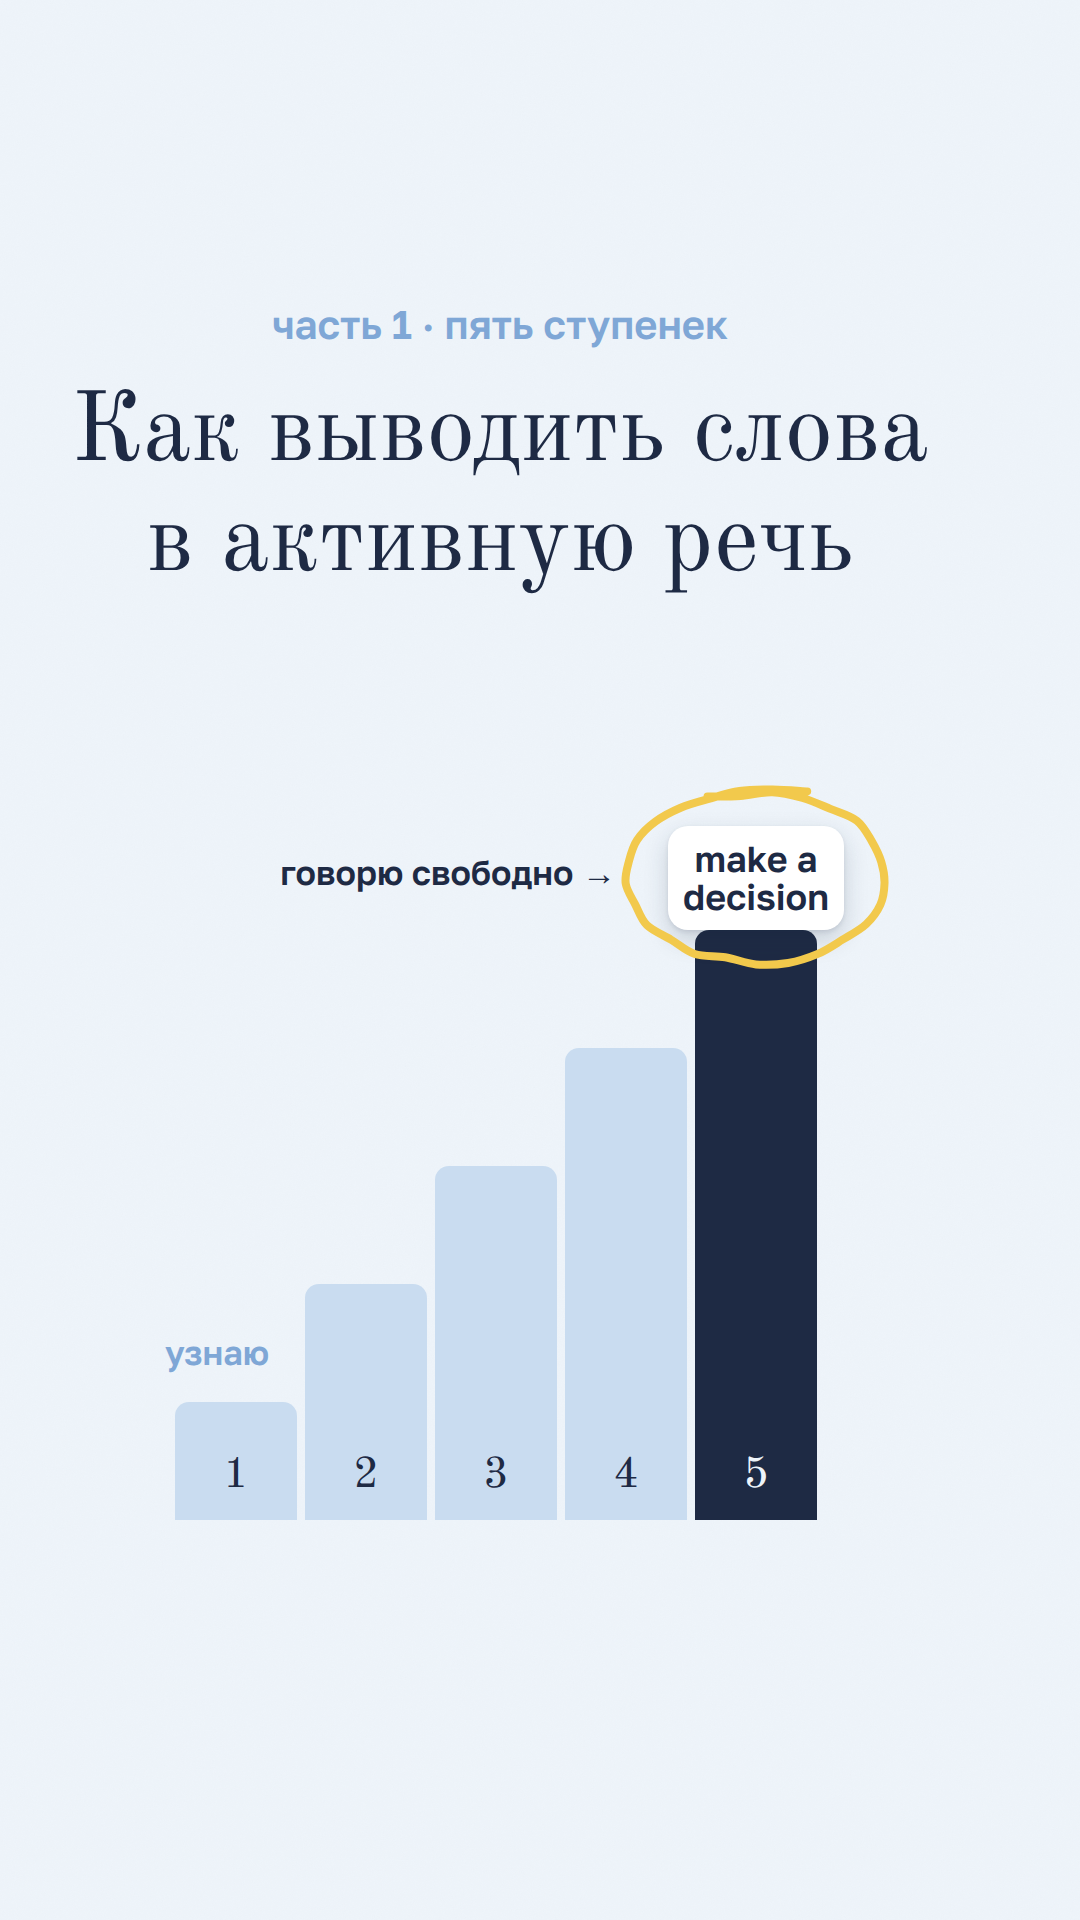
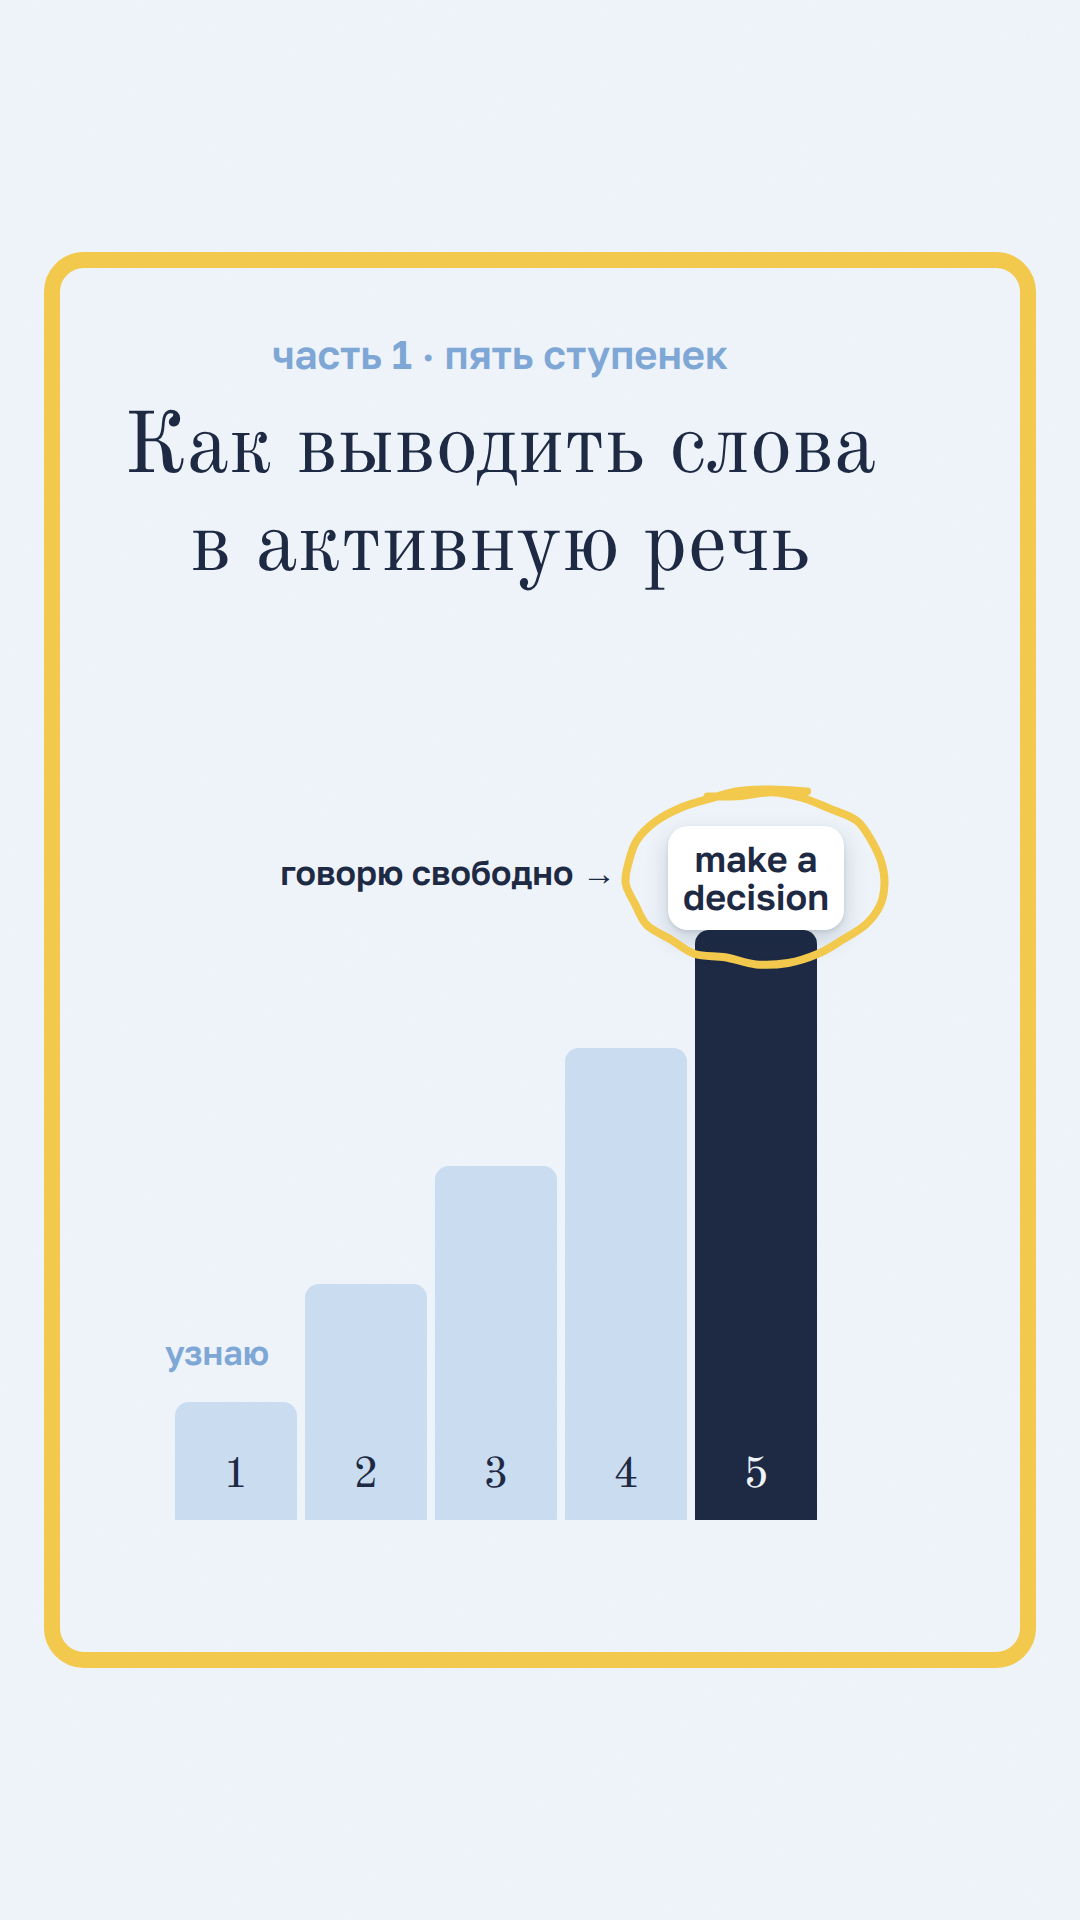
Cover: yellow frame around the 3:4 grid area
Claude-Session: https://claude.ai/code/session_01XX44fygX2okS6cCpt1cBS8

Changed region(s): [[0.0306, 0.125, 0.9778, 0.875]]

diff --git a/reel_lesenka/video/src/Cover.tsx b/reel_lesenka/video/src/Cover.tsx
@@ -18,8 +18,10 @@ export const Cover1: React.FC = () => {
   return (
     <AbsoluteFill>
       <Paper />
-      <div style={{position: 'absolute', left: 60, width: 880, top: 300, textAlign: 'center', fontFamily: SANS, fontWeight: 600, fontSize: 40, color: C.sky}}>часть 1 · пять ступенек</div>
-      <div style={{position: 'absolute', left: 50, width: 900, top: 380, textAlign: 'center', fontFamily: SERIF, fontSize: 98, lineHeight: 1.12, color: C.ink}}>
+      {/* жёлтая рамка по зоне 3:4 (то, что видно в сетке профиля) */}
+      <div style={{position: 'absolute', left: 44, top: 252, width: 1080 - 88, height: 1440 - 24, boxSizing: 'border-box', border: `16px solid ${C.marker}`, borderRadius: 40}} />
+      <div style={{position: 'absolute', left: 60, width: 880, top: 330, textAlign: 'center', fontFamily: SANS, fontWeight: 600, fontSize: 40, color: C.sky}}>часть 1 · пять ступенек</div>
+      <div style={{position: 'absolute', left: 50, width: 900, top: 400, textAlign: 'center', fontFamily: SERIF, fontSize: 86, lineHeight: 1.14, color: C.ink}}>
         {COVER1_TITLE.map((l) => (
           <div key={l} style={{whiteSpace: 'nowrap'}}>
             {l}
